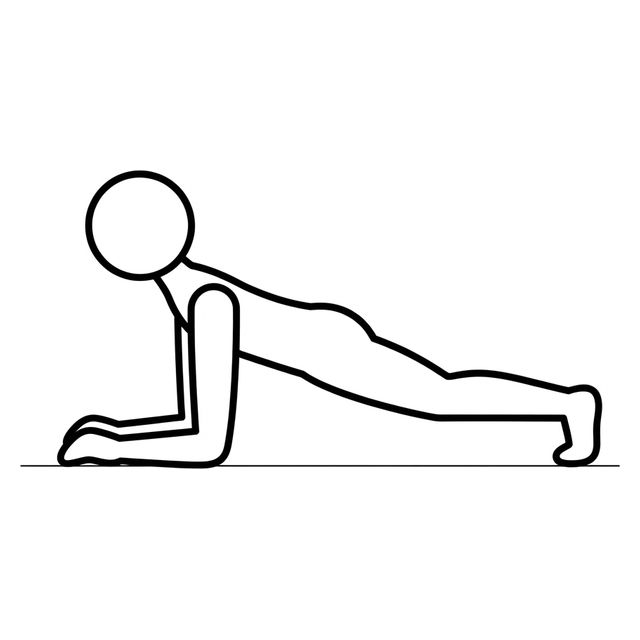
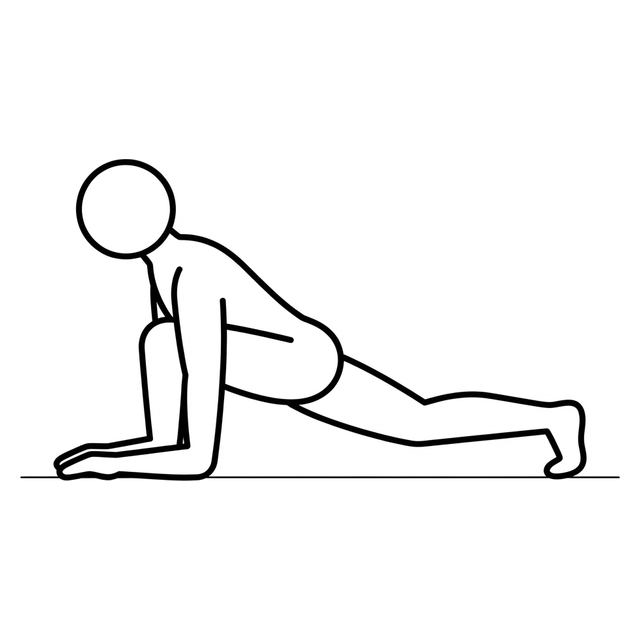
Second perspectives for poses one drawing can't carry; lizard redrawn
Some poses read wrong from a single angle — a reclined figure four from
the side hides which leg crosses which, and inversion vs eversion is
about which way the sole turns. Diagrams can now carry extra views
(top / front / side / back), generated, reviewed and promoted like any
other picture (`<slug>--<view>.png`), and both players show them
captioned next to the main drawing.

13 poses got a second view: reclined figure four, pigeon, thread the
needle, seated twist, happy baby, garland, frog, 90/90, supine twist,
dead bug, clamshells, and front-on foot views for band inversion and
band eversion. Lizard was redrawn from a prompt that spells out the one
defining detail (front foot OUTSIDE the hands). Two attempted views
came out wrong and were dropped rather than shipped. Library: 155
pictures.

Changed region(s): [[0.0312, 0.25, 0.9688, 0.75], [0.5625, 0.5, 0.5938, 0.5312]]

diff --git a/src/lib/exercise-art.ts b/src/lib/exercise-art.ts
@@ -17,7 +17,15 @@ export interface ExerciseArt {
   label: string;
   /** Pose description handed to the image model. One position, no ambiguity. */
   prompt: string;
+  /**
+   * Extra perspectives for poses one drawing can't carry (a figure-four from
+   * the side hides which leg crosses which). Rendered next to the primary
+   * picture. File: `<slug>--<key>.png`, promoted like any other diagram.
+   */
+  views?: Array<{ key: ArtViewKey; prompt: string }>;
 }
+
+export type ArtViewKey = "top" | "front" | "side" | "back";
 
 /**
  * Left/right are the same picture; anything else in parentheses is a real
@@ -41,11 +49,13 @@ export const EXERCISE_ART: ExerciseArt[] = [
   { slug: "plank", label: "Plank", prompt: "holding a forearm plank, side view: body in one straight line from head to heels, forearms flat on the ground, elbows under shoulders, toes on the ground" },
   { slug: "side-plank", label: "Side plank", prompt: "holding a side plank, facing the viewer: body straight and angled, supported on one forearm on the ground, hips lifted high, feet stacked" },
   { slug: "hollow-body-hold", label: "Hollow body hold", prompt: "lying face up in a hollow body hold, side view: lower back pressed to the floor, arms extended straight overhead, legs straight and lifted just off the floor" },
-  { slug: "dead-bug", label: "Dead bug", prompt: "lying flat on the back, side view: one arm reaching straight back overhead close to the floor while the OPPOSITE leg is extended straight out just above the floor, and at the same time the other arm points straight up at the ceiling and the other knee is bent ninety degrees directly above the hip" },
+  { slug: "dead-bug", label: "Dead bug", prompt: "lying flat on the back, side view: one arm reaching straight back overhead close to the floor while the OPPOSITE leg is extended straight out just above the floor, and at the same time the other arm points straight up at the ceiling and the other knee is bent ninety degrees directly above the hip",
+    views: [{ key: "top", prompt: "lying face up seen from directly above: one arm extended straight overhead along the floor and the OPPOSITE leg extended straight out along the floor, while the other arm points straight up toward the viewer and the other knee is bent above the hip" }] },
   { slug: "glute-bridge", label: "Glute bridge", prompt: "lying face up in a glute bridge, side view: knees bent with feet flat on the floor, hips lifted so the body makes a straight line from knees to shoulders, arms flat at the sides" },
   { slug: "single-leg-glute-bridge", label: "Single-leg glute bridge", prompt: "lying face up in a single leg glute bridge, side view: one foot flat on the floor with hips lifted, the other leg extended straight out in the air" },
   { slug: "superman-hold", label: "Superman hold", prompt: "lying face down in a superman hold, side view: arms extended forward and legs extended back, both lifted off the floor, chest raised" },
-  { slug: "clamshells", label: "Clamshells", prompt: "lying on one side for a clamshell exercise, facing the viewer: knees bent and stacked, feet together, top knee lifted open away from the bottom knee" },
+  { slug: "clamshells", label: "Clamshells", prompt: "lying on one side for a clamshell exercise, facing the viewer: knees bent and stacked, feet together, top knee lifted open away from the bottom knee",
+    views: [{ key: "top", prompt: "lying on one side seen from directly above: hips and knees bent with the feet together, the top knee lifted open away from the bottom knee like an opening shell while the feet stay touching, the lower arm folded under the head" }] },
   { slug: "fire-hydrants", label: "Fire hydrants", prompt: "on hands and knees in the fire hydrant position, side view: back flat, one knee lifted out to the side while staying bent at ninety degrees" },
   { slug: "squats", label: "Squats", prompt: "at the bottom of a bodyweight squat, side view: hips pushed back and down, thighs near parallel to the floor, chest up, arms reaching forward for balance, feet flat" },
   { slug: "reverse-lunges", label: "Reverse lunges", prompt: "in the bottom of a reverse lunge, side view: one leg stepped back with the knee low toward the floor, front knee bent over the front foot, torso upright" },
@@ -143,9 +153,12 @@ export const EXERCISE_ART: ExerciseArt[] = [
   { slug: "face-pulls", label: "Face pulls", prompt: "standing performing a band face pull, front view: both arms pulling a stretched elastic band back toward the face at head height, elbows high and wide out to the sides, shoulder blades squeezed" },
   { slug: "scapular-pulls", label: "Scapular pulls", prompt: "hanging from a horizontal bar performing a scapular pull, front view: arms completely straight throughout, the whole body pulled up only slightly by the shoulder blades drawing down and together, legs hanging straight" },
   { slug: "negative-pull-ups", label: "Negative pull-ups", prompt: "lowering slowly from the top of a pull up on a horizontal bar, front view: chin near the bar with elbows bent, the body descending under control, legs hanging straight below" },
-  { slug: "ninety-ninety-hip-stretch", label: "90/90 hip stretch", prompt: "seated on the floor in the 90/90 hip stretch seen from directly above looking down: the front leg is bent so the thigh points forward and the shin crosses the body at a sharp right angle, the rear leg is bent so that thigh points out to the side with the shin trailing behind, both knees form clear right angles, the legs are NOT crossed" },
-  { slug: "band-inversion", label: "Band inversion", prompt: "close cropped view from directly above of one lower leg and foot, seated with the leg straight: a flat resistance band is looped around the forefoot and anchored far out to the OUTSIDE of the foot, and the foot is turned INWARD so the sole faces the other leg, pulling against the band; a small arrow shows the foot rotating inward" },
-  { slug: "band-eversion", label: "Band eversion", prompt: "close cropped view from directly above of one lower leg and foot, seated with the leg straight: a flat resistance band is looped around the forefoot and anchored far out to the INSIDE across the other leg, and the foot is turned OUTWARD so the sole faces away from the body, pulling against the band; a small arrow shows the foot rotating outward" },
+  { slug: "ninety-ninety-hip-stretch", label: "90/90 hip stretch", prompt: "seated on the floor in the 90/90 hip stretch seen from directly above looking down: the front leg is bent so the thigh points forward and the shin crosses the body at a sharp right angle, the rear leg is bent so that thigh points out to the side with the shin trailing behind, both knees form clear right angles, the legs are NOT crossed",
+    views: [{ key: "front", prompt: "seated in the 90/90 hip stretch seen from the front at eye level: the front shin lies flat on the floor across the body with the knee bent at a right angle, the rear leg is bent at a right angle with the thigh out to the side and the shin pointing backward, the torso is upright with hands on the floor" }] },
+  { slug: "band-inversion", label: "Band inversion", prompt: "close cropped view from directly above of one lower leg and foot, seated with the leg straight: a flat resistance band is looped around the forefoot and anchored far out to the OUTSIDE of the foot, and the foot is turned INWARD so the sole faces the other leg, pulling against the band; a small arrow shows the foot rotating inward",
+    views: [{ key: "front", prompt: "close view of one foot from directly in front at floor level: a flat resistance band is looped around the forefoot and pulls out to the OUTSIDE of the foot, and the whole foot is tilted INWARD so the sole faces toward the other leg, a small arrow shows the sole turning inward" }] },
+  { slug: "band-eversion", label: "Band eversion", prompt: "close cropped view from directly above of one lower leg and foot, seated with the leg straight: a flat resistance band is looped around the forefoot and anchored far out to the INSIDE across the other leg, and the foot is turned OUTWARD so the sole faces away from the body, pulling against the band; a small arrow shows the foot rotating outward",
+    views: [{ key: "front", prompt: "close view of one foot from directly in front at floor level: a flat resistance band is looped around the forefoot and pulls across to the INSIDE toward the other leg, and the whole foot is tilted OUTWARD so the sole faces away from the other leg, a small arrow shows the sole turning outward" }] },
   { slug: "band-dorsiflexion", label: "Band dorsiflexion", prompt: "close cropped side view of one lower leg and foot, seated with the leg straight: a flat resistance band is looped over the top of the forefoot and anchored far in front, and the toes are pulled UP toward the shin against the band; a small arrow shows the foot lifting" },
   { slug: "band-plantarflexion", label: "Band plantarflexion", prompt: "close cropped side view of one lower leg and foot, seated with the leg straight: a flat resistance band is looped under the ball of the foot and held taut by two hands near the knee, and the foot is pointed AWAY like pressing a pedal; a small arrow shows the foot pressing down" },
   { slug: "cat-pose", label: "Cat pose", prompt: "on hands and knees in cat pose, side view: hands under shoulders and knees under hips, back rounded strongly upward toward the ceiling, head dropped down" },
@@ -160,27 +173,35 @@ export const EXERCISE_ART: ExerciseArt[] = [
   { slug: "reverse-warrior", label: "Reverse warrior", prompt: "in reverse warrior, facing the viewer: legs wide with the front knee bent, torso leaning back over the straight back leg, front arm reaching up and back overhead, back hand resting on the back leg" },
   { slug: "triangle-pose", label: "Triangle", prompt: "in triangle pose, facing the viewer: both legs straight and wide, torso tilted sideways over the front leg, lower hand resting on the shin, upper arm pointing straight up, gaze up" },
   { slug: "extended-side-angle", label: "Extended side angle", prompt: "in extended side angle pose, facing the viewer: front knee bent deeply, back leg straight, front forearm resting on the front thigh, top arm extended over the ear in one long line from the back foot to the fingertips" },
-  { slug: "pigeon-pose", label: "Pigeon", prompt: "in pigeon pose, side view: front leg bent on the floor with the shin angled in front of the hips, back leg extended straight behind along the floor, hips square and low, torso upright with hands on the floor" },
-  { slug: "reclined-figure-four", label: "Reclined figure four", prompt: "lying face up in a reclined figure four stretch, side view: one ankle crossed over the opposite knee making a four shape, hands holding behind the thigh of the bottom leg, pulling the legs toward the chest" },
-  { slug: "happy-baby", label: "Happy baby", prompt: "lying face up in happy baby pose, side view: knees drawn toward the armpits, feet in the air with soles facing the ceiling, hands holding the outer edges of the feet" },
-  { slug: "supine-twist", label: "Supine twist", prompt: "lying face up in a supine spinal twist, seen from above: knees bent and dropped together to one side onto the floor, arms extended out to the sides in a T, head turned to the opposite side" },
+  { slug: "pigeon-pose", label: "Pigeon", prompt: "in pigeon pose, side view: front leg bent on the floor with the shin angled in front of the hips, back leg extended straight behind along the floor, hips square and low, torso upright with hands on the floor",
+    views: [{ key: "top", prompt: "in pigeon pose seen from directly above: the front leg is bent flat on the floor with the shin angled across in front of the hips, the back leg extends straight behind along the floor, the torso is upright with the hands on the floor either side of the front shin" }] },
+  { slug: "reclined-figure-four", label: "Reclined figure four", prompt: "lying face up in a reclined figure four stretch, side view: one ankle crossed over the opposite knee making a four shape, hands holding behind the thigh of the bottom leg, pulling the legs toward the chest",
+    views: [{ key: "top", prompt: "lying face up seen from directly above: one ankle rests across the opposite thigh just above the knee so the legs make a clear figure four shape, the bottom leg is bent with the foot lifted off the floor, both hands hold behind the bottom thigh" }] },
+  { slug: "happy-baby", label: "Happy baby", prompt: "lying face up in happy baby pose, side view: knees drawn toward the armpits, feet in the air with soles facing the ceiling, hands holding the outer edges of the feet",
+    views: [{ key: "front", prompt: "in happy baby pose seen from the feet end looking toward the head: lying on the back, knees pulled wide apart toward the armpits, both feet in the air with the soles facing the ceiling, each hand holding the outer edge of the same-side foot" }] },
+  { slug: "supine-twist", label: "Supine twist", prompt: "lying face up in a supine spinal twist, seen from above: knees bent and dropped together to one side onto the floor, arms extended out to the sides in a T, head turned to the opposite side",
+    views: [{ key: "side", prompt: "in a supine spinal twist seen from the side: lying on the back with the shoulders flat, both knees bent and dropped together to one side onto the floor, the arms extended out on the floor" }] },
   { slug: "seated-forward-fold", label: "Seated forward fold", prompt: "seated on the floor in a forward fold, side view: both legs straight out in front, torso folding forward over the legs, hands reaching toward the feet" },
   { slug: "wide-leg-forward-fold", label: "Wide-leg forward fold", prompt: "in a wide legged standing forward fold, facing the viewer: feet very wide apart, legs straight, torso folded down between the legs, hands flat on the floor, head hanging down" },
   { slug: "half-split", label: "Half split", prompt: "in a half split hamstring stretch, side view: kneeling on one knee with the other leg extended straight in front with the heel on the floor and toes up, hips back over the kneeling leg, torso folding forward over the straight leg, hands on the floor" },
-  { slug: "lizard-pose", label: "Lizard", prompt: "in lizard pose, side view: deep lunge with the front foot placed outside the hands, both forearms on the floor inside the front foot, back leg extended straight behind with the knee lifted" },
-  { slug: "garland-pose", label: "Garland (deep squat)", prompt: "in a deep yoga squat, facing the viewer: feet flat and slightly wider than the hips, hips sunk all the way down between the heels, torso upright, palms pressed together at the chest with the elbows pushing the knees apart" },
-  { slug: "thread-the-needle", label: "Thread the needle", prompt: "in thread the needle pose, side view: on hands and knees with one arm threaded under the body along the floor, that shoulder and the side of the head resting on the floor, the other hand on the floor above the head" },
+  { slug: "lizard-pose", label: "Lizard", prompt: "in lizard pose seen from the side on the front-foot side: a very deep low lunge where the FRONT foot is planted flat on the floor OUTSIDE the same-side hand, so that both forearms rest flat on the floor INSIDE the front foot with the front knee beside the shoulder, hips sunk low, back leg long behind with the knee lifted and toes tucked" },
+  { slug: "garland-pose", label: "Garland (deep squat)", prompt: "in a deep yoga squat, facing the viewer: feet flat and slightly wider than the hips, hips sunk all the way down between the heels, torso upright, palms pressed together at the chest with the elbows pushing the knees apart",
+    views: [{ key: "side", prompt: "in a deep yoga squat seen from the side: feet flat on the floor, hips sunk all the way down close to the heels, torso upright, palms together at the chest with the elbows pressing into the inner knees" }] },
+  { slug: "thread-the-needle", label: "Thread the needle", prompt: "in thread the needle pose, side view: on hands and knees with one arm threaded under the body along the floor, that shoulder and the side of the head resting on the floor, the other hand on the floor above the head",
+    views: [{ key: "front", prompt: "in thread the needle pose seen from the front: on the knees with one arm threaded sideways under the chest along the floor with the palm up, that shoulder and the side of the head resting on the floor, the other arm reaching up and over the head with the hand on the floor" }] },
   { slug: "puppy-pose", label: "Puppy pose", prompt: "in extended puppy pose, side view: kneeling with the hips stacked directly above the knees, arms stretched far forward along the floor, chest melting toward the floor, forehead on the floor" },
   { slug: "legs-up-the-wall", label: "Legs up the wall", prompt: "lying face up with the legs up a wall, side view: hips close to the wall, both legs resting straight up against the wall, arms relaxed out to the sides on the floor" },
   { slug: "butterfly-pose", label: "Butterfly", prompt: "seated in butterfly pose, facing the viewer: soles of the feet pressed together in front, knees dropped open out to the sides, hands holding the feet, torso upright" },
-  { slug: "seated-twist", label: "Seated twist", prompt: "seated in a spinal twist, seen from a three quarter view: one leg straight, the other knee bent with the foot planted outside the straight leg, torso twisted toward the bent knee, opposite elbow hooked outside that knee, other hand on the floor behind" },
+  { slug: "seated-twist", label: "Seated twist", prompt: "seated in a spinal twist, seen from a three quarter view: one leg straight, the other knee bent with the foot planted outside the straight leg, torso twisted toward the bent knee, opposite elbow hooked outside that knee, other hand on the floor behind",
+    views: [{ key: "top", prompt: "seated spinal twist seen from directly above: one leg straight along the floor, the other knee bent with the foot planted on the floor OUTSIDE the straight leg, the torso rotated toward the bent knee with the opposite elbow hooked on the outside of that knee, the other hand on the floor behind the hips" }] },
   { slug: "mountain-pose", label: "Mountain pose", prompt: "standing tall in mountain pose, facing the viewer: feet together, legs straight, arms relaxed at the sides with palms facing forward, shoulders back, chin level" },
   { slug: "chair-pose", label: "Chair pose", prompt: "in chair pose, side view: feet together, knees bent as if sitting into a chair, thighs angled, torso leaning slightly forward, arms straight up overhead" },
   { slug: "tree-pose", label: "Tree pose", prompt: "in tree pose, facing the viewer: standing on one straight leg, the other foot placed against the inner thigh of the standing leg with the knee out to the side, palms together at the chest" },
   { slug: "boat-pose", label: "Boat pose", prompt: "in boat pose, side view: seated balancing on the sit bones, legs lifted straight so the body forms a V, arms extended forward parallel to the floor, chest lifted" },
   { slug: "camel-pose", label: "Camel pose", prompt: "in camel pose, side view: kneeling upright with the shins on the floor, back arched, hands reaching back to hold the heels, chest lifted and open, head gently back" },
   { slug: "locust-pose", label: "Locust pose", prompt: "lying face down in locust pose, side view: arms extended back along the sides, chest, arms and both legs lifted off the floor, gaze slightly forward" },
-  { slug: "frog-pose", label: "Frog pose", prompt: "in frog pose, seen from a three quarter view: kneeling with the knees spread very wide, shins on the floor angled out with feet turned outward, forearms on the floor, hips sinking down and back" },
+  { slug: "frog-pose", label: "Frog pose", prompt: "in frog pose, seen from a three quarter view: kneeling with the knees spread very wide, shins on the floor angled out with feet turned outward, forearms on the floor, hips sinking down and back",
+    views: [{ key: "top", prompt: "in frog pose seen from directly above: the knees spread very wide to both sides, shins on the floor angled outward with the feet turned out, the torso flat on the forearms between the knees" }] },
   { slug: "savasana", label: "Savasana (rest)", prompt: "lying flat on the back in savasana, side view: legs straight and slightly apart, arms relaxed at the sides with palms up, eyes closed, completely at rest" },
   { slug: "kneeling-hip-flexor-stretch", label: "Kneeling hip flexor stretch", prompt: "in a kneeling hip flexor stretch, side view: one knee on the floor with the shin behind, front foot flat in front with the knee bent, hips pressed forward, torso upright, hands on the front thigh" },
 ];
@@ -280,4 +301,17 @@ const READY_SLUGS = new Set(READY as string[]);
 export function artPathFor(name: string, artKey?: string | null): string | null {
   const entry = (artKey ? BY_SLUG.get(artKey) : undefined) ?? artEntryFor(name);
   return entry && READY_SLUGS.has(entry.slug) ? `/exercise-art/${entry.slug}.png` : null;
+}
+
+/** Every promoted picture for an exercise: the primary first, then extra perspectives. */
+export function artViewsFor(name: string, artKey?: string | null): Array<{ src: string; view: ArtViewKey | "primary" }> {
+  const entry = (artKey ? BY_SLUG.get(artKey) : undefined) ?? artEntryFor(name);
+  if (!entry) return [];
+  const out: Array<{ src: string; view: ArtViewKey | "primary" }> = [];
+  if (READY_SLUGS.has(entry.slug)) out.push({ src: `/exercise-art/${entry.slug}.png`, view: "primary" });
+  for (const v of entry.views || []) {
+    const id = `${entry.slug}--${v.key}`;
+    if (READY_SLUGS.has(id)) out.push({ src: `/exercise-art/${id}.png`, view: v.key });
+  }
+  return out;
 }

diff --git a/src/app/workout/player.tsx b/src/app/workout/player.tsx
@@ -4,7 +4,11 @@ import { useState, useEffect, useRef, useCallback, useMemo } from "react";
 import { flattenSegments, type WorkoutDefinition, type Segment } from "@/lib/guided-workout";
 import { emitToast } from "@/lib/toast";
 import { emitDataChanged } from "@/lib/capture-context";
-import { artPathFor } from "@/lib/exercise-art";
+import { artPathFor, artViewsFor, type ArtViewKey } from "@/lib/exercise-art";
+
+const VIEW_KEY: Record<ArtViewKey, "art.viewTop" | "art.viewFront" | "art.viewSide" | "art.viewBack"> = {
+  top: "art.viewTop", front: "art.viewFront", side: "art.viewSide", back: "art.viewBack",
+};
 import { useT, useLang } from "@/app/features-provider";
 import { localeFor } from "@/lib/i18n";
 import FlowStage from "./flow-stage";
@@ -117,6 +121,9 @@ export default function WorkoutPlayer({ title, definition, workoutId, onExit }: 
   const segLabel = seg?.label ?? "";
   // A picture of the position beats a sentence you have to read mid-effort.
   const artSrc = seg?.kind === "work" ? artPathFor(seg.label, seg.art) : null;
+  // Poses one drawing can't carry (which leg crosses which) come with a second
+  // perspective; both are shown, captioned, so the athlete never has to guess.
+  const artViews = seg?.kind === "work" ? artViewsFor(seg.label, seg.art) : [];
 
   // Restore audio prefs
   useEffect(() => {
@@ -456,7 +463,7 @@ export default function WorkoutPlayer({ title, definition, workoutId, onExit }: 
             pct={segPct / 100}
             elapsedSec={seg.seconds != null ? seg.seconds - remaining : 0}
             showBreath={breathOn}
-            artSrc={artSrc}
+            artSrc={artSrc} artViews={artViews}
             t={t}
           />
         ) : (
@@ -470,10 +477,20 @@ export default function WorkoutPlayer({ title, definition, workoutId, onExit }: 
             <h1 className="text-3xl md:text-4xl font-extrabold text-ink mb-1">
               {segLabel}
             </h1>
-            {artSrc && (
+            {artViews.length > 1 ? (
+              <div className="flex items-end justify-center gap-4 mt-1">
+                {artViews.map((v) => (
+                  <figure key={v.src} className="flex flex-col items-center m-0">
+                    {/* eslint-disable-next-line @next/next/no-img-element */}
+                    <img src={v.src} alt="" className="w-24 h-24 md:w-32 md:h-32 object-contain" />
+                    <figcaption className="text-[10px] text-sage font-bold mt-0.5">{v.view === "primary" ? "" : t(VIEW_KEY[v.view])}</figcaption>
+                  </figure>
+                ))}
+              </div>
+            ) : artSrc ? (
               /* eslint-disable-next-line @next/next/no-img-element */
               <img src={artSrc} alt="" className="w-28 h-28 md:w-36 md:h-36 object-contain mt-1" />
-            )}
+            ) : null}
             {seg.note && <p className="text-sm text-moss font-semibold mb-4 max-w-xs">{seg.note}</p>}
 
             {isTimed ? (

diff --git a/src/app/workout/flow-stage.tsx b/src/app/workout/flow-stage.tsx
@@ -18,6 +18,8 @@ interface FlowStageProps {
   elapsedSec: number;
   showBreath: boolean;
   artSrc: string | null;
+  /** Extra perspectives (top/front/side) shown small under the pose name. */
+  artViews?: Array<{ src: string; view: "top" | "front" | "side" | "back" | "primary" }>;
   t: (key: DictKey) => string;
 }
 
@@ -26,7 +28,9 @@ const BREATH_SEC = 5;
 const RING_R = 46;
 const RING_C = 2 * Math.PI * RING_R;
 
-export default function FlowStage({ seg, pct, elapsedSec, showBreath, artSrc, t }: FlowStageProps) {
+export default function FlowStage({ seg, pct, elapsedSec, showBreath, artSrc, artViews = [], t }: FlowStageProps) {
+  const extraViews = artViews.filter((v) => v.view !== "primary");
+  const VIEW_KEY: Record<string, DictKey> = { top: "art.viewTop", front: "art.viewFront", side: "art.viewSide", back: "art.viewBack" };
   const inhale = Math.floor(elapsedSec / BREATH_SEC) % 2 === 0;
   const breathing = showBreath && seg.kind === "work";
 
@@ -61,6 +65,17 @@ export default function FlowStage({ seg, pct, elapsedSec, showBreath, artSrc, t 
       </div>
 
       <h1 className="text-3xl md:text-4xl font-extrabold text-ink mt-5 mb-1">{seg.label}</h1>
+      {extraViews.length > 0 && (
+        <div className="flex justify-center gap-4 mb-1">
+          {extraViews.map((v) => (
+            <figure key={v.src} className="flex flex-col items-center m-0">
+              {/* eslint-disable-next-line @next/next/no-img-element */}
+              <img src={v.src} alt="" className="w-20 h-20 object-contain rounded-xl bg-card border-2 border-shade" />
+              <figcaption className="text-[10px] text-sage font-bold mt-0.5">{t(VIEW_KEY[v.view])}</figcaption>
+            </figure>
+          ))}
+        </div>
+      )}
       {seg.note && <p className="text-sm text-moss font-semibold max-w-xs">{seg.note}</p>}
 
       {/* Fixed-height slot so the layout doesn't jump when pacing is off or during "Settle in" */}

diff --git a/src/lib/dict/workout.ts b/src/lib/dict/workout.ts
@@ -245,6 +245,10 @@ export const en = {
   "yoga.cuePlank": "One straight line, breathe steadily",
   "yoga.cueSunFlow": "Move on the breath — one movement per inhale or exhale",
   "yoga.cueYinEdge": "Find your edge, then back off a little — settle in for the long hold",
+  "art.viewTop": "from above",
+  "art.viewFront": "from the front",
+  "art.viewSide": "from the side",
+  "art.viewBack": "from behind",
 } as const;
 
 export const de: Partial<Record<keyof typeof en, string>> = {
@@ -475,6 +479,10 @@ export const de: Partial<Record<keyof typeof en, string>> = {
   "yoga.cuePlank": "Eine gerade Linie, ruhig weiteratmen",
   "yoga.cueSunFlow": "Mit dem Atem bewegen — eine Bewegung pro Ein- oder Ausatmen",
   "yoga.cueYinEdge": "Deine Grenze finden, dann etwas zurücknehmen — für die lange Haltung einrichten",
+  "art.viewTop": "von oben",
+  "art.viewFront": "von vorn",
+  "art.viewSide": "von der Seite",
+  "art.viewBack": "von hinten",
 };
 
 export const es: Partial<Record<keyof typeof en, string>> = {
@@ -705,4 +713,8 @@ export const es: Partial<Record<keyof typeof en, string>> = {
   "yoga.cuePlank": "Una línea recta, respira de forma constante",
   "yoga.cueSunFlow": "Muévete con la respiración — un movimiento por inhalación o exhalación",
   "yoga.cueYinEdge": "Encuentra tu límite y retrocede un poco — acomódate para la postura larga",
+  "art.viewTop": "desde arriba",
+  "art.viewFront": "de frente",
+  "art.viewSide": "de lado",
+  "art.viewBack": "desde atrás",
 };

diff --git a/scripts/gen-exercise-art.ts b/scripts/gen-exercise-art.ts
@@ -167,7 +167,8 @@ function promote(slug: string, index: string) {
   if (!ready.includes(slug)) ready.push(slug);
   ready.sort();
   writeFileSync(READY_JSON, `${JSON.stringify(ready, null, 2)}\n`);
-  console.log(`Promoted ${slug} #${index} -> ${FINAL_DIR}/${slug}.png  (${ready.length}/${EXERCISE_ART.length} done)`);
+  const total = EXERCISE_ART.reduce((n, e) => n + 1 + (e.views?.length || 0), 0);
+  console.log(`Promoted ${slug} #${index} -> ${FINAL_DIR}/${slug}.png  (${ready.length}/${total} done)`);
 }
 
 async function main() {
@@ -179,7 +180,13 @@ async function main() {
   mkdirSync(CAND_DIR, { recursive: true });
   const ready: string[] = JSON.parse(readFileSync(READY_JSON, "utf8"));
 
-  let targets = EXERCISE_ART;
+  // One target per PICTURE: the primary drawing (id = slug) plus every extra
+  // perspective (id = slug--view). Candidates, promotion and the ready list
+  // all key on the id, so a view is handled exactly like a diagram.
+  let targets: ExerciseArt[] = EXERCISE_ART.flatMap((e) => [
+    e,
+    ...(e.views || []).map((v) => ({ slug: `${e.slug}--${v.key}`, label: `${e.label} (${v.key})`, prompt: v.prompt })),
+  ]);
   if (a.only) targets = targets.filter((e) => e.slug === a.only);
   else if (!a.force) targets = targets.filter((e) => !ready.includes(e.slug));
 
